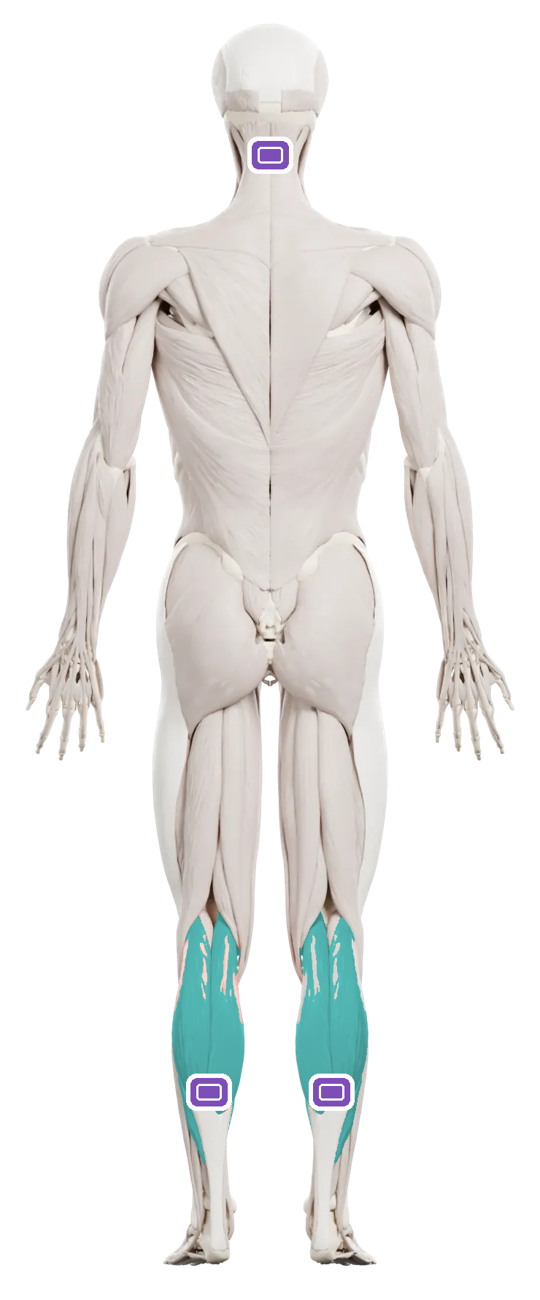
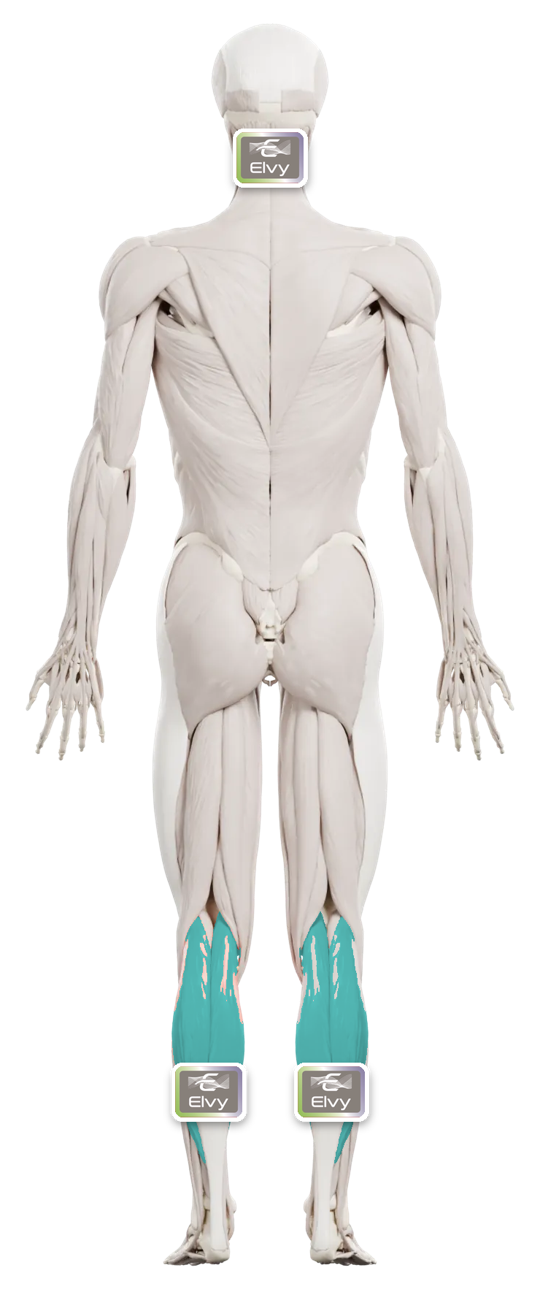
Elvy: Guida: illustrazioni con il dispositivo Elvy al posto delle foto Equistasi
Tre passaggi illustrati con il dispositivo Elvy (appoggia, copri con il
cerotto, premi i bordi) e mappatura Sport con Elvy in piccolo su C7 e sui
polpacci. Tolte le foto dei dispositivi Equistasi.

Claude-Session: https://claude.ai/code/session_01X122sTCxopNjMERKkykXnn

Changed region(s): [[0.5333, 0.8, 0.7111, 0.8923], [0.2963, 0.8, 0.4741, 0.8923], [0.4148, 0.0923, 0.5926, 0.1538]]

diff --git a/elvy/js/app.js b/elvy/js/app.js
@@ -1272,13 +1272,12 @@
       talk(IMG.point, 'Qui trovi come si applica Elvy con il cerotto, la mappa dei punti per lo sport e i protocolli. Guarda il video prima del primo confronto!', true) +
       '<h2 class="sec">Video tutorial</h2><div id="gd-videos"><div class="card"><p class="small muted">Caricamento dei video…</p></div></div>' +
       '<h2 class="sec">Come si applica</h2><div class="card guide-steps">' +
-      '<img src="img/cerotto.jpg" alt="Cerotto trasparente e dispositivi" class="guide-photo" />' +
-      '<ol class="steps" style="margin-top:14px"><li><b>Pelle pulita e asciutta</b>, senza creme né oli.</li>' +
-      '<li>Appoggia il dispositivo Elvy sul punto, <b>a contatto con la pelle</b>.</li>' +
-      '<li>Prendi il <b>cerotto trasparente</b> in dotazione, togli la pellicola centrale e mettilo sopra il dispositivo.</li>' +
-      '<li>Togli le linguette laterali e premi bene i bordi: il cerotto deve aderire senza pieghe.</li>' +
-      '<li>Per toglierlo solleva piano un bordo del cerotto, tenendo ferma la pelle.</li></ol>' +
-      '<img src="img/cerotto-dispositivo.jpg" alt="Dispositivo sul cerotto" class="guide-photo" style="margin-top:6px" /></div>' +
+      '<p class="small muted">Pelle <b style="color:#fff">pulita e asciutta</b>, senza creme né oli. Poi, per ogni punto:</p>' +
+      [['img/elvy-pelle.jpg', 'Appoggia Elvy', 'Metti il dispositivo Elvy sul punto, a contatto con la pelle.'],
+        ['img/elvy-cerotto.jpg', 'Copri con il cerotto', 'Togli la pellicola centrale del cerotto trasparente in dotazione e mettilo sopra Elvy.'],
+        ['img/elvy-premi.jpg', 'Premi i bordi', 'Togli le linguette laterali e premi bene i bordi, senza pieghe.']]
+        .map((x, i) => '<div class="g-step"><div class="g-img"><img src="' + x[0] + '" alt="" loading="lazy" /><i>' + (i + 1) + '</i></div><div><b>' + x[1] + '</b><span>' + x[2] + '</span></div></div>').join('') +
+      '<p class="small muted" style="margin-top:12px">Per toglierlo solleva piano un bordo del cerotto, tenendo ferma la pelle.</p></div>' +
       '<h2 class="sec">Mappatura Sport</h2><div class="card map-card"><div class="map-wrap"><img src="img/mappa-sport.png" alt="Punti di applicazione per lo sport: C7 e polpacci" /></div>' +
       '<ol class="map-legend"><li><i>1</i><div><b>C7 · settima vertebra cervicale</b><span>Alla base del collo: è la vertebra che sporge di più quando pieghi la testa in avanti.</span></div></li>' +
       '<li><i>2·3</i><div><b>Tricipite della sura · polpacci</b><span>Uno per gamba, nella parte bassa del polpaccio, sul soleo, sopra il tendine d\'Achille.</span></div></li></ol>' +

diff --git a/elvy/sw.js b/elvy/sw.js
@@ -1,8 +1,8 @@
 // Elvy: cache per l'uso offline. Aumenta VERSION a ogni rilascio.
-const VERSION = 'elvy-v11';
+const VERSION = 'elvy-v12';
 const FILES = [
   './', 'index.html', 'css/elvy.css', 'css/pair.css', 'js/analysis.js', 'js/sim.js', 'js/sensors.js', 'js/app.js', 'js/gate.js', 'js/video.js', 'js/report.js', '../js/config.js', '../js/scan.js', '../js/pair.js', 'manifest.webmanifest',
-  'img/icon-elvy-192.png', 'img/icon-elvy-512.png', 'img/apple-touch-icon.png', 'img/favicon-32.png', 'img/logo-elvy.png', 'img/logo-equistasi.png', 'img/mascotte.jpg', 'img/pollice.jpg', 'img/punta.jpg', 'img/salta.jpg', 'img/logo-e.png', 'img/mappa-sport.png', 'img/cerotto.jpg', 'img/cerotto-dispositivo.jpg', 'img/mascotte-report.jpg',
+  'img/icon-elvy-192.png', 'img/icon-elvy-512.png', 'img/apple-touch-icon.png', 'img/favicon-32.png', 'img/logo-elvy.png', 'img/logo-equistasi.png', 'img/mascotte.jpg', 'img/pollice.jpg', 'img/punta.jpg', 'img/salta.jpg', 'img/logo-e.png', 'img/mappa-sport.png', 'img/elvy-pelle.jpg', 'img/elvy-cerotto.jpg', 'img/elvy-premi.jpg', 'img/mascotte-report.jpg',
 ];
 
 self.addEventListener('install', (e) => {

diff --git a/elvy/css/elvy.css b/elvy/css/elvy.css
@@ -366,7 +366,12 @@ body.running .by { display: none; }
 
 /* ───────── Guida ───────── */
 .tabbar a { min-width: 0; flex: 1; padding: 4px 4px; font-size: 12px; }
-.guide-photo { display: block; width: 100%; border-radius: 14px; }
+.g-step { display: grid; grid-template-columns: 44% 1fr; gap: 14px; align-items: center; margin-top: 14px; }
+.g-img { position: relative; }
+.g-img img { display: block; width: 100%; border-radius: 14px; }
+.g-img i { position: absolute; left: 8px; top: 8px; width: 28px; height: 28px; border-radius: 50%; background: var(--teal); color: var(--ink); font-style: normal; font-weight: 800; display: grid; place-items: center; font-size: 14px; }
+.g-step b { display: block; font-family: var(--head); font-size: 16px; }
+.g-step span { display: block; color: var(--muted); font-size: 14.5px; margin-top: 4px; line-height: 1.4; }
 .map-card { padding: 14px; }
 .map-wrap { background: radial-gradient(70% 60% at 50% 45%, #5a5a60, #3a3a3e); border-radius: 16px; padding: 14px 0; text-align: center; }
 .map-wrap img { width: 66%; max-width: 300px; }

diff --git a/elvy/index.html b/elvy/index.html
@@ -15,7 +15,7 @@
   <link rel="preconnect" href="https://fonts.googleapis.com" />
   <link rel="preconnect" href="https://fonts.gstatic.com" crossorigin />
   <link href="https://fonts.googleapis.com/css2?family=Lexend:wght@500;700&family=Manrope:wght@400;600;700;800&display=swap" rel="stylesheet" />
-  <link rel="stylesheet" href="css/elvy.css?v=10" />
+  <link rel="stylesheet" href="css/elvy.css?v=11" />
   <link rel="stylesheet" href="css/pair.css?v=1" />
 </head>
 <body>
@@ -42,7 +42,7 @@
   <script src="js/sensors.js?v=3"></script>
   <script src="js/video.js?v=1"></script>
   <script src="js/report.js?v=1"></script>
-  <script src="js/app.js?v=8"></script>
+  <script src="js/app.js?v=9"></script>
   <script>
     if ('serviceWorker' in navigator && location.protocol === 'https:') navigator.serviceWorker.register('sw.js', { scope: './' });
   </script>

diff --git a/elvy/README.md b/elvy/README.md
@@ -67,7 +67,7 @@ Come Equistasi Point, un seriale funziona su **un solo telefono o computer alla 
 
 Nuova scheda **Guida** nella barra in basso:
 - **Video tutorial**: dalla tabella Airtable *Videos* (base Equistasi App), letti con il webhook Make di Equistasi Point (`videosUrl`); compaiono quelli con **«Elvy»** nel campo *Profili app* (va aggiunta l'opzione «Elvy» al campo). YouTube, Vimeo, Bunny Stream o file video.
-- **Come si applica** con il cerotto trasparente, con le foto.
+- **Come si applica** con il cerotto trasparente, in tre illustrazioni con il dispositivo Elvy (`img/elvy-pelle.jpg`, `elvy-cerotto.jpg`, `elvy-premi.jpg`).
 - **Mappatura Sport** (`img/mappa-sport.png`): C7 e tricipite della sura (polpacci, sul soleo sopra il tendine d'Achille), con i tempi del protocollo Sport (primo giorno 1–2 ore, massimo 4 ore al giorno, 5 giorni a settimana) e quando togliere i dispositivi.
 - **Protocolli**: i PDF della tabella *PDF_files* con «Elvy» in *Profili app*; finché non ci sono, «Protocollo Sport Elvy – in preparazione».
 
